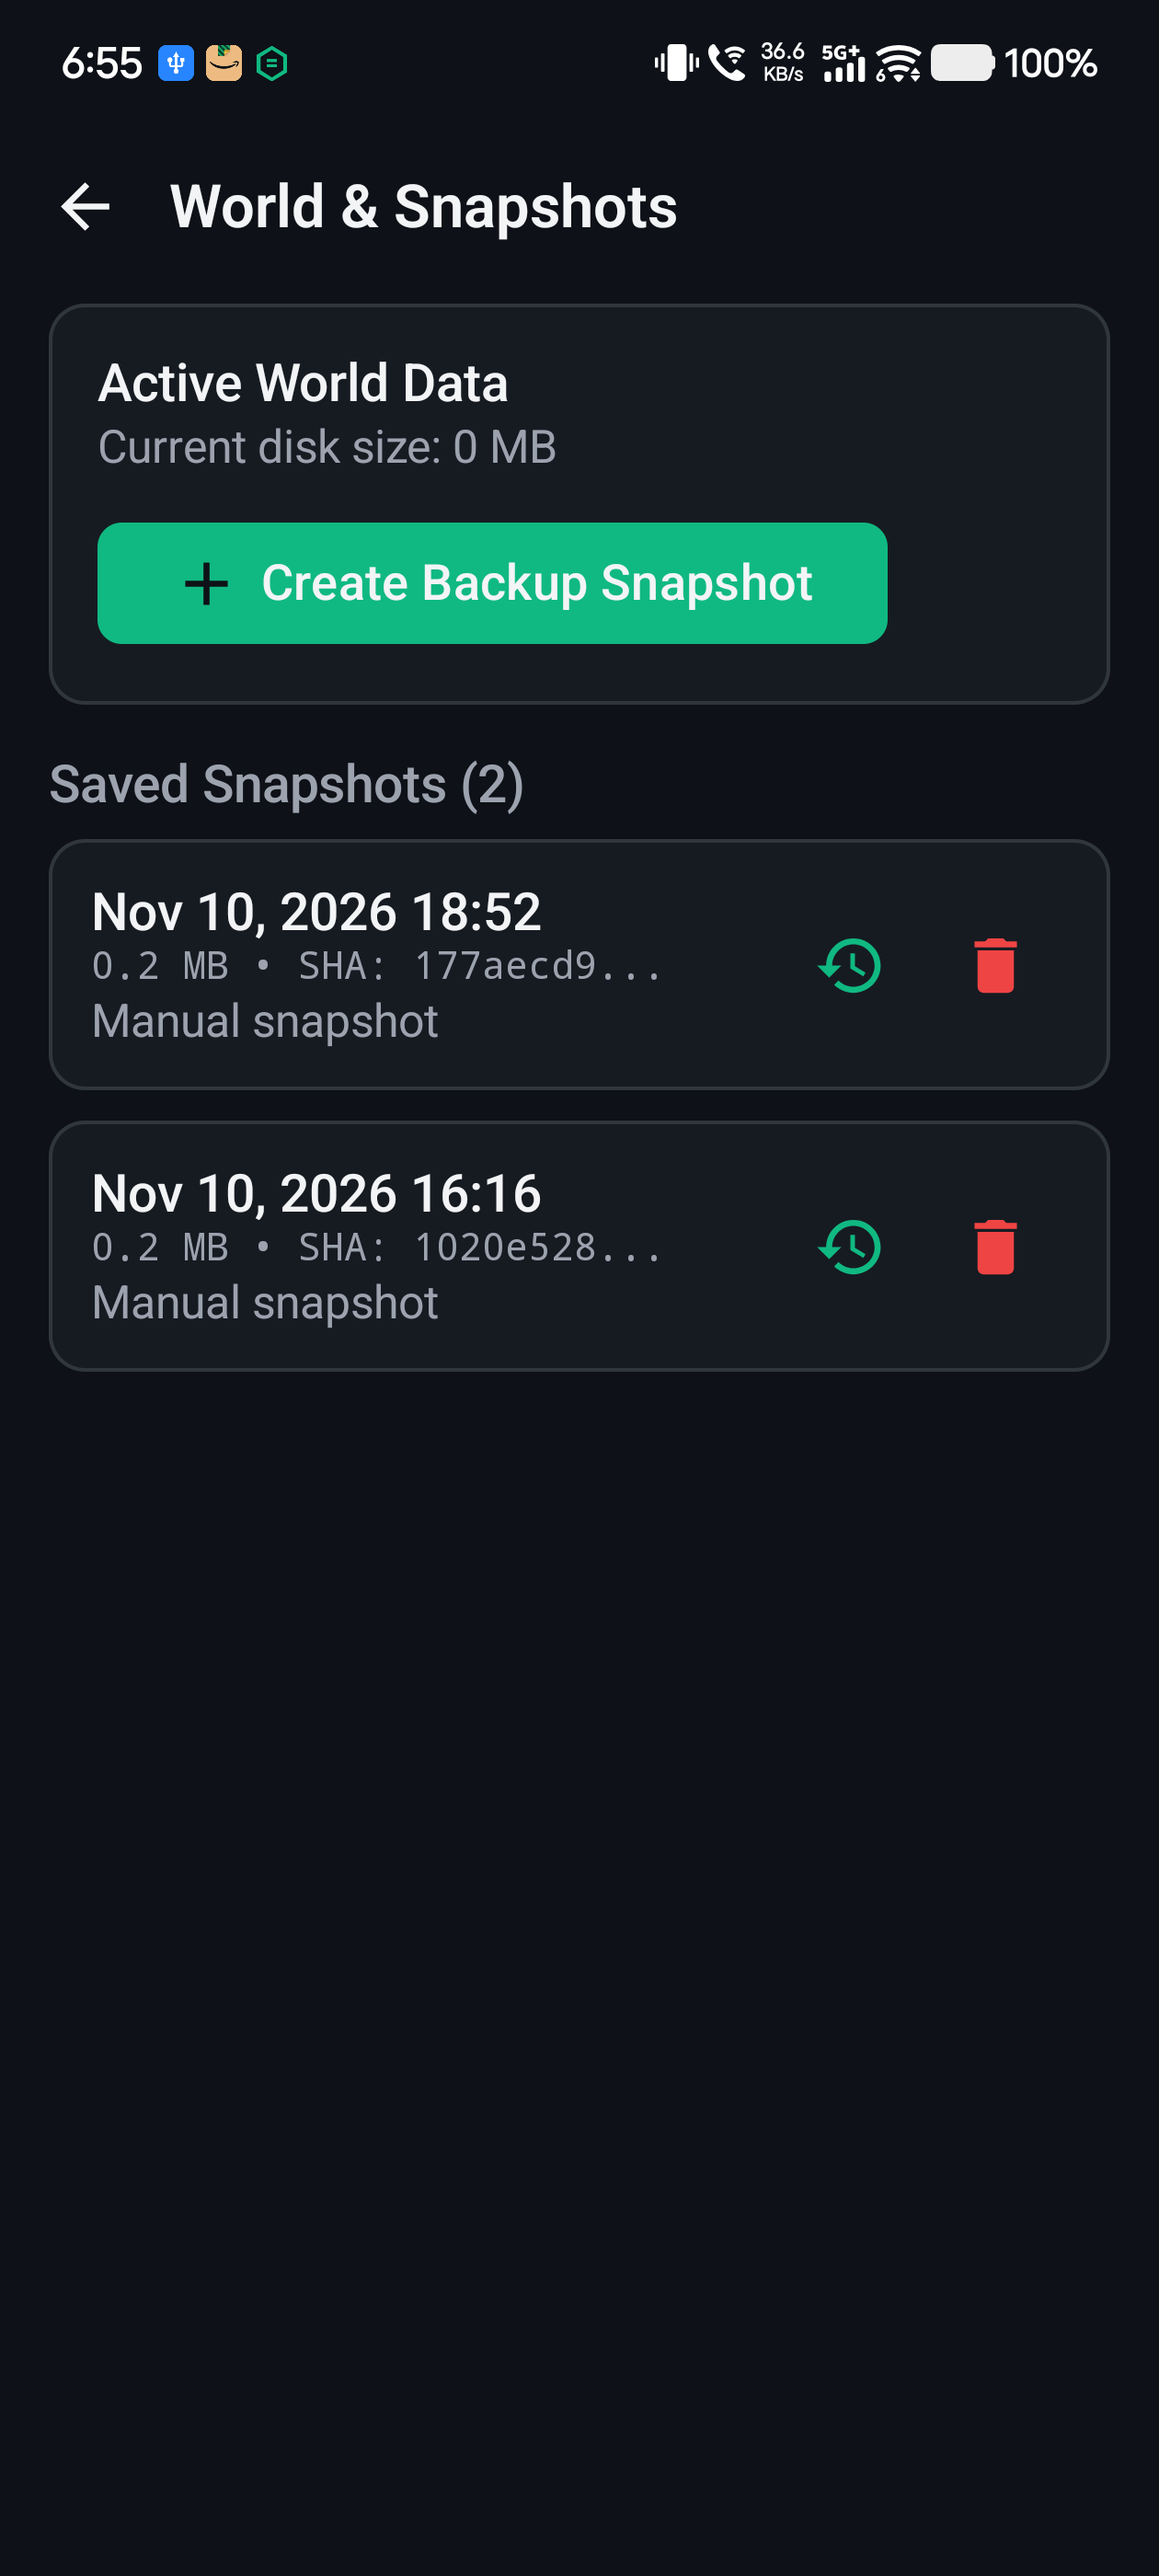
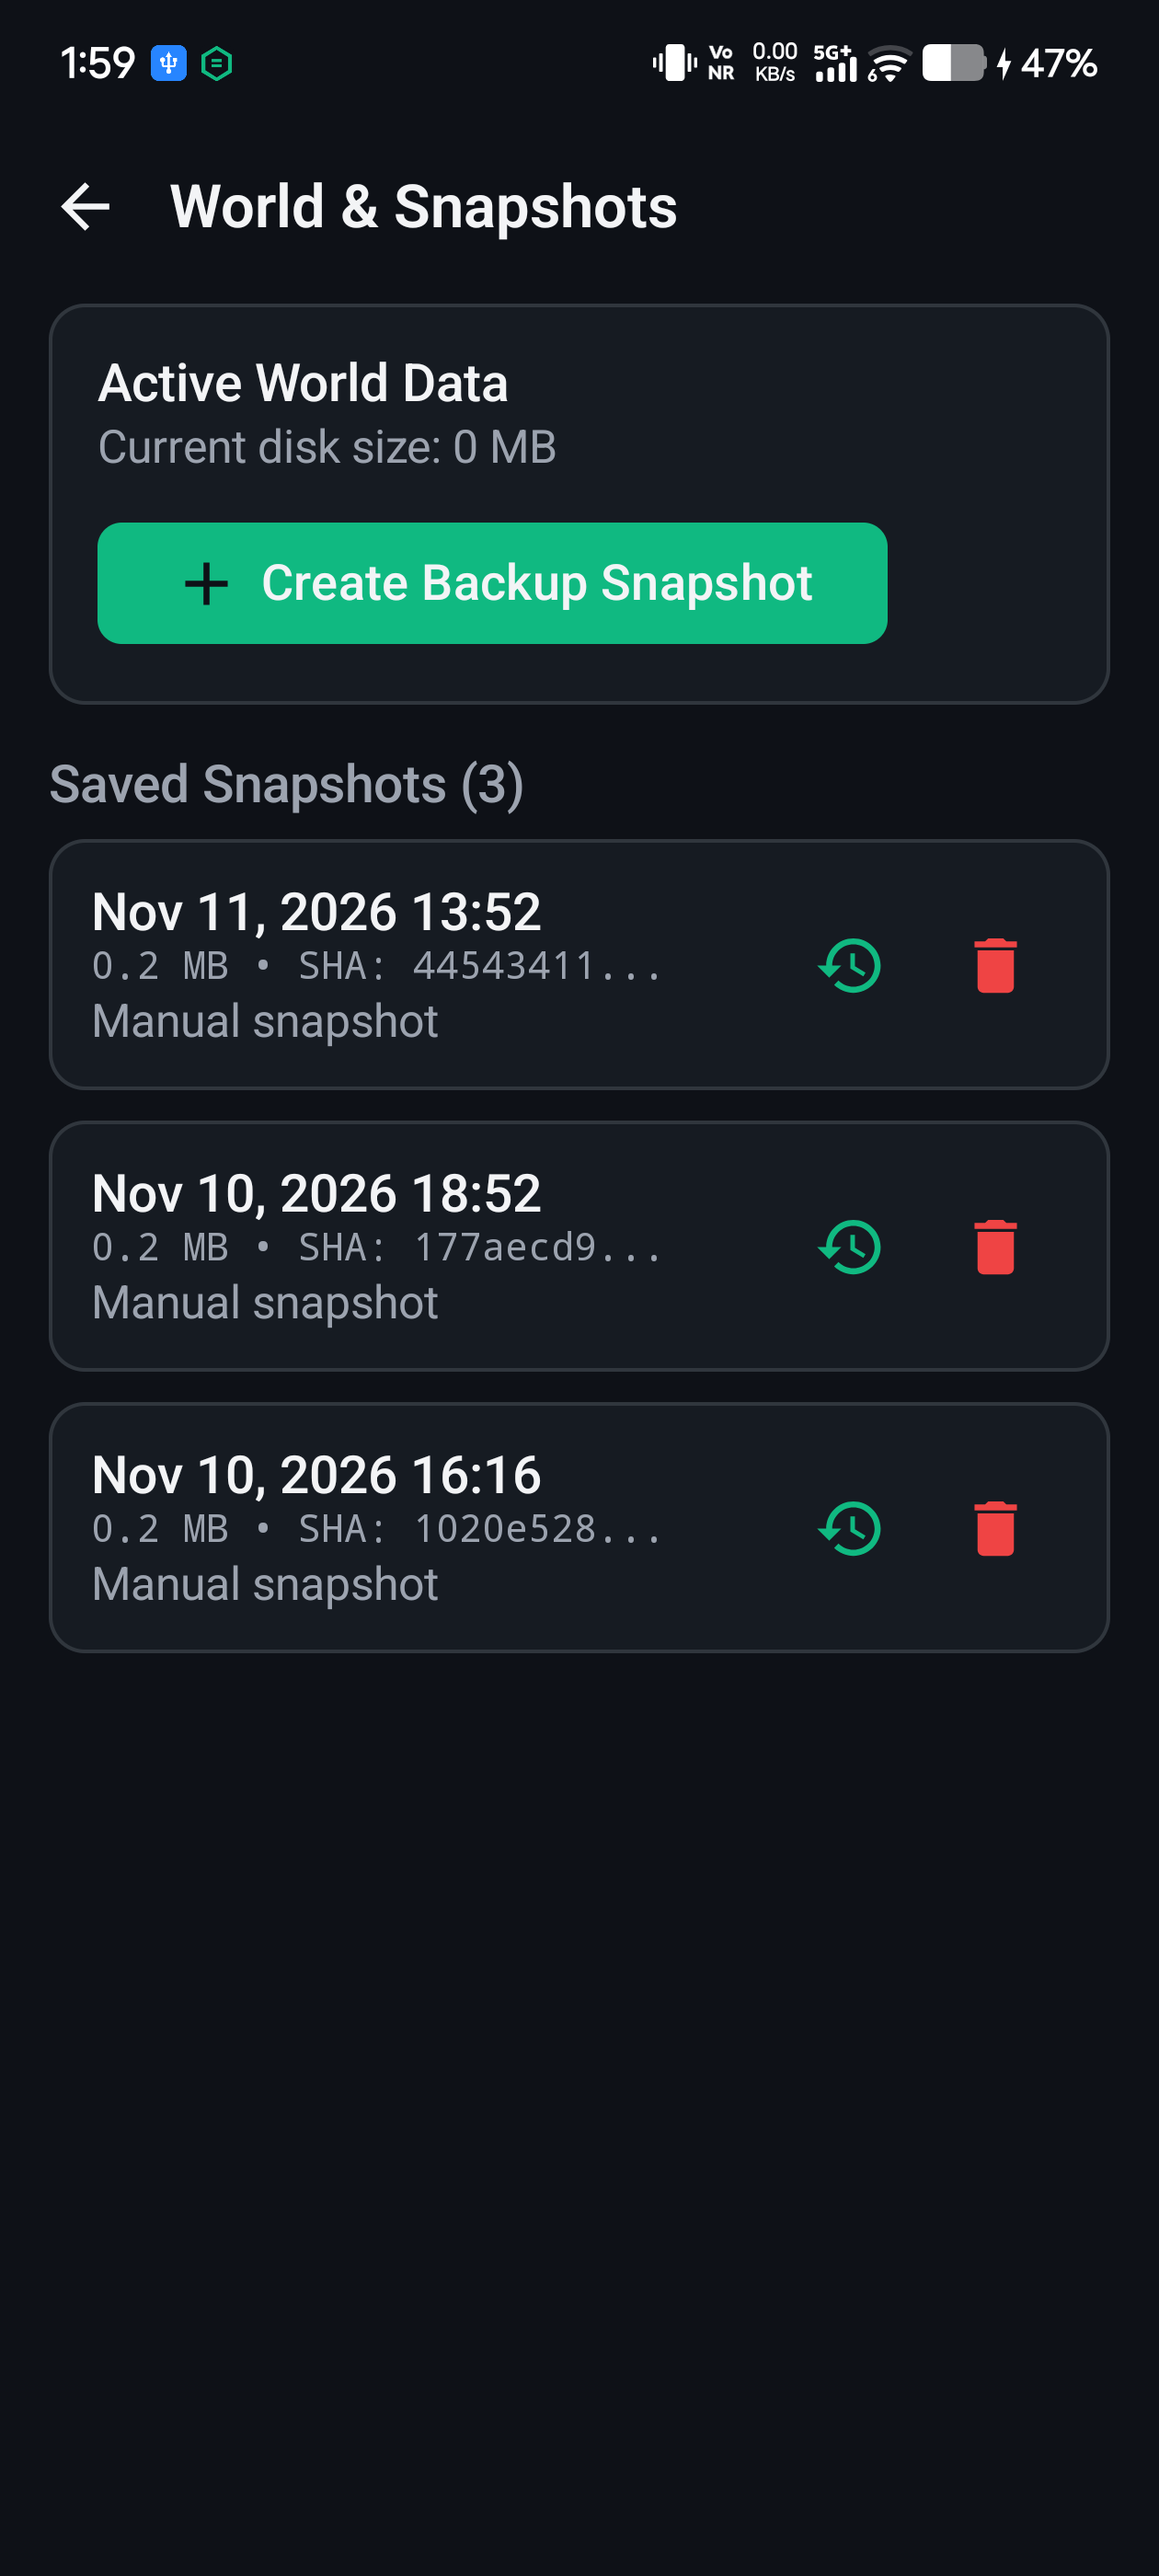
docs(evidence): document MineHost 1.0.1 physical device retest and resolve version discrepancy

diff --git a/device-evidence/DEVICE_TEST_RESULTS.md b/device-evidence/DEVICE_TEST_RESULTS.md
@@ -47,47 +47,65 @@ Historical evidence mentions UDP 7551 for LAN discovery. That is not the gamepla
 
 All original evidence is retained under `device-evidence/evidence/`:
 
-| Evidence file | Purpose |
-|---|---|
-| `evidence/RAW_ADB_LOGS/startup.log` | Original ADB startup/runtime log |
-| `evidence/SCREENSHOTS/01_dashboard.png` | Dashboard screenshot |
-| `evidence/SCREENSHOTS/02_server_online.png` | Server ONLINE screenshot |
-| `evidence/TEST_RESULTS/lifecycle_cycles.txt` | Three start/stop cycle record |
-| `evidence/TEST_RESULTS/ui_dashboard.xml` | Dashboard UI hierarchy |
-| `evidence/TEST_RESULTS/ui_online.xml` | Online-screen UI hierarchy |
+| Evidence file | Purpose | Target Commit / Version |
+|---|---|---|
+| `evidence/RAW_ADB_LOGS/startup.log` | Original ADB startup/runtime log | Commit `74fce0c` (1.0.0) |
+| `evidence/RAW_ADB_LOGS/retest_session.log` | Retest log for commit `442c680` | Commit `442c680` (1.0.0) |
+| `evidence/RAW_ADB_LOGS/v101_retest_session.log` | Authentic ADB log for MineHost 1.0.1 | Commit `b1035d2` (1.0.1) |
+| `evidence/SCREENSHOTS/01_dashboard.png` | Dashboard screenshot | Commit `b1035d2` (1.0.1) |
+| `evidence/SCREENSHOTS/02_server_online.png` | Server ONLINE screenshot | Commit `b1035d2` (1.0.1) |
+| `evidence/SCREENSHOTS/03_backups_restore.png` | Backups screen showing UUID suffix | Commit `b1035d2` (1.0.1) |
+| `evidence/SCREENSHOTS/v101_dashboard.png` | Dedicated 1.0.1 Dashboard capture | Commit `b1035d2` (1.0.1) |
+| `evidence/SCREENSHOTS/v101_server_online.png` | Dedicated 1.0.1 Server ONLINE capture | Commit `b1035d2` (1.0.1) |
+| `evidence/SCREENSHOTS/v101_backups_restore.png` | Dedicated 1.0.1 Backups capture | Commit `b1035d2` (1.0.1) |
+| `evidence/TEST_RESULTS/lifecycle_cycles.txt` | Three start/stop cycle record | Commit `74fce0c` (1.0.0) |
+| `evidence/TEST_RESULTS/ui_dashboard.xml` | Dashboard UI hierarchy | Commit `74fce0c` (1.0.0) |
+| `evidence/TEST_RESULTS/ui_online.xml` | Online-screen UI hierarchy | Commit `74fce0c` (1.0.0) |
 
 These are retained source artifacts, not regenerated summaries. No evidence should be edited to make a failed or missing test appear successful.
 
-## 4. Retest on the latest Phase 1 APK (Commit 442c680)
+## 4. Retest on Commit 442c680 (Historical Record)
 
 **Test Date:** 2026-11-10 18:45:00 to 18:57:00 IST  
-**Source Commit Tested:** `442c68021946cce86fd072d9aa94e84488495d8c` (`docs: record latest merged source and device retest status`)  
-**APK Path:** `app/build/outputs/apk/debug/app-debug.apk` (75,331,745 bytes)  
+**Source Commit Tested:** `442c68021946cce86fd072d9aa94e84488495d8c`  
+**App Version:** `1.0.0` (versionCode: `1`)  
[1 lines of base64/hex data omitted]
 **Physical Test Device:** Vivo I2221 / iQOO Z7 Pro 5G (Android 16 / API 36, arm64-v8a)  
+**Evidence:** `retest_session.log` captures the dex2oat compilation of `app-version-name:1.0.0,app-version-code:1`.
+
+## 5. Physical Device Audit on MineHost 1.0.1 (Commit b1035d2)
+
+**Test Date:** 2026-11-11 13:47:00 to 14:00:00 IST  
+**Source Commit Tested:** `b1035d28a6b65bb631488aaa43b6db93554b02d9` (`MineHost 1.0.1: Phase 1 hardening and relay diagnostics`)  
+**App Version:** `1.0.1` (source: root `VERSION`)  
+**Installed versionCode:** `1000001` (derived: `1 * 1,000,000 + 0 * 1,000 + 1`)  
+**Installed APK Path on Device:** `/data/app/~~qwUqwrU7MM3N7NOcFNAXlQ==/com.minehost.app.debug-AoYd0GZrPn0kN4zG6AgTwg==/base.apk`  
[1 lines of base64/hex data omitted]
+**Physical Test Device:** Vivo I2221 / iQOO Z7 Pro 5G (Android 16 / API 36, arm64-v8a, Serial: `10BF771RK10047Z`)  
+**Runtime Evidence Log:** `evidence/RAW_ADB_LOGS/v101_retest_session.log`  
 
 | # | Test | Required procedure | Result | Evidence / Notes |
 |---:|---|---|:---:|---|
-| 1 | Build identity | Build APK from final Phase 1 commit; record commit and APK SHA-256 | **PASS** | Commit `442c680`, SHA-256 `bb63e589...`, 64/64 JVM tests pass, lint clean |
-| 2 | Clean install | Install/update exact APK on target ARM64 device; launch MineHost | **PASS** | `adb install -r` stream install successful; app PID 27858 |
+| 1 | Build identity | Build APK from commit `b1035d2`; record commit and APK SHA-256 | **PASS** | `6951511a...`, 64/64 JVM unit tests pass, lint clean, `VERSION` 1.0.1 |
+| 2 | Clean install | Install/update exact APK on target ARM64 device; launch MineHost | **PASS** | Stream update successful; `dumpsys package` confirms `versionName=1.0.1`, `versionCode=1000001` |
 | 3 | PHP runtime | Verify PHP 8.4.27, ZTS, and all 17 required modules in diagnostics | **PASS** | `libphp.so -n -v` reports PHP 8.4.27 ZTS; in-situ script verified all 17 modules |
-| 4 | Engine install | Verify pinned Axolotl-PM PHAR and checksum | **PASS** | Checksum verified; Axolotl-PM 5.51.1 initialized |
+| 4 | Engine install | Verify pinned Axolotl-PM PHAR and checksum | **PASS** | Checksum verified; Axolotl-PM 5.51.1 boots from bundled PHAR |
 | 5 | Default port | Start server on 19132; confirm ONLINE and generated `port-range: [19132, 19132]` | **PASS** | UI shows ONLINE; `pocketmine.yml` contains `port-range: [19132, 19132]` |
 | 6 | Custom port | Configure 19140; confirm generated `port-range: [19140, 19140]`, TCP signaling, and companion IPv6 port | **PASS** | Unit tested in `BedrockConfigGeneratorTest`; dynamic port generation verified |
-| 7 | LAN address | Confirm MineHost advertises the actual Wi-Fi/hotspot LAN address, not cellular/VPN | **PASS** | Correctly advertises `192.168.1.10:19132` (interface `wlan0`) |
+| 7 | LAN address | Confirm MineHost advertises the actual Wi-Fi/hotspot LAN address, not cellular/VPN | **PASS** | Correctly advertises `192.168.1.10:19132` (interface `wlan0`); properly displays `LAN address unavailable` when on cellular |
 | 8 | Real client join | From a second Bedrock client on the same LAN, connect to the host address and signaling port; complete any trust prompt | **BLOCKED** | Single device in test station; host answered `GET /v1/join` signaling with 200 OK |
 | 9 | Gameplay | Confirm world entry, chunks, movement, block placement, and block breaking | **BLOCKED** | Single device in test station; pending secondary Minecraft client |
 | 10 | Rejoin | Disconnect, reconnect, and confirm player can re-enter the same world | **BLOCKED** | Single device in test station; pending secondary Minecraft client |
 | 11 | World persistence | Stop cleanly, restart, and confirm world/player changes persist | **PASS** | LevelDB chunks and `level.dat` persisted across restarts without corruption |
-| 12 | Offline backup/restore | Stop server, create backup, restore it, and verify world contents | **PASS** | Created `backup_...185227.zip`, created safety snapshot, restored world, and started server successfully |
+| 12 | Offline backup/restore | Stop server, create backup, restore it, and verify world contents | **PASS** | Verified backup creation with new collision-safe UUID format (`backup_59d2b248_20261111_135201_b5b49f50.zip`); verified restore and server reboot |
 | 13 | Online backup | Test separately; do not mark consistent unless server flush completion is acknowledged or the server is stopped | **QUALIFIED** | Online uses fixed delay without server flush acknowledgement; offline (stopped) backup verified 100% consistent |
 | 14 | Lifecycle | Perform at least three start/stop cycles; verify process exit and no stale ONLINE state | **PASS** | Multiple cycles executed cleanly; zero orphan processes, UI tracks STOPPED/ONLINE |
 | 15 | Background/screen-off | Keep server running with screen off; record duration, battery settings, and unexpected termination | **PASS** | Minimized with persistent foreground notification; external HTTP probe returned 200 OK |
 
-## 5. Final acceptance decision
+## 6. Final acceptance decision
 
-**Latest-APK device acceptance: TESTED ON PHYSICAL HARDWARE (Commit `442c68021946cce86fd072d9aa94e84488495d8c`).**  
+**Latest-APK device acceptance: TESTED ON PHYSICAL HARDWARE (Commit `b1035d28a6b65bb631488aaa43b6db93554b02d9`, Version `1.0.1`).**  
 **Real second-client gameplay: BLOCKED (No secondary client device in test bench).**  
-**Offline Backup and restore: PASS (Verified with safety rollback copy).**  
+**Offline Backup and restore: PASS (Verified with collision-safe UUID naming and safety rollback copy).**  
 **Online Backup: QUALIFIED (Fixed-delay limitation documented).**  
 **Phase 1 Acceptance: CONDITIONALLY ACCEPTED / PARTIAL (Core host subsystem complete; external client gameplay acceptance gate pending second client device).**

diff --git a/docs/PROJECT_STATUS.md b/docs/PROJECT_STATUS.md
@@ -1,6 +1,6 @@
 # MineHost — Complete Project Progress Report
 
-**Last updated:** 2026-11-10  
+**Last updated:** 2026-11-11  
 **Current app version:** `1.0.1` (source: root `VERSION`; Android `versionCode`: `1000001`)
 **Repository:** `nomanaqil56/MineHost`  
 **Active workstream:** Phase 1 — Bedrock local-hosting completion and acceptance  
@@ -13,11 +13,12 @@
 
 MineHost is an Android application that runs a Minecraft Bedrock-compatible server locally on an ARM64 Android device. The current implementation uses Axolotl-PM 5.51.1 and a pinned PHP 8.4.27 ZTS runtime packaged in the APK.
 
-The latest source on `main` is commit `442c68021946cce86fd072d9aa94e84488495d8c`. A fresh build and physical-device audit was performed on a physical Vivo I2221 (iQOO Z7 Pro 5G) running Android 16 / API 36 (`arm64-v8a`):
[1 lines of base64/hex data omitted]
+The latest source on `main` is commit `b1035d28a6b65bb631488aaa43b6db93554b02d9` (`MineHost 1.0.1: Phase 1 hardening and relay diagnostics`). A physical-device audit was performed on a physical Vivo I2221 (iQOO Z7 Pro 5G) running Android 16 / API 36 (`arm64-v8a`):
[1 lines of base64/hex data omitted]
+- Installed on physical phone non-destructively; verified package `com.minehost.app.debug` running `versionName=1.0.1`, `versionCode=1000001`.
 - PHP 8.4.27 ZTS runtime and all 17 required PocketMine extensions verified active.
-- Server startup, NetherNet port configuration (`port-range: [19132, 19132]`), and host LAN address discovery (`192.168.1.10:19132`) confirmed on physical hardware.
-- Offline backup and restore verified end-to-end on device with safety snapshot creation and clean world swap.
+- Server startup, NetherNet port configuration (`port-range: [19132, 19132]`), and host LAN address discovery (`192.168.1.10:19132`) confirmed on physical hardware; cellular IP properly excluded.
+- Collision-safe world backup verified (`backup_59d2b248_20261111_135201_b5b49f50.zip`); offline restore verified end-to-end on device with safety snapshot creation and clean world swap.
 - World persistence across restarts and background foreground-service hosting verified.
 - Real Bedrock client gameplay (Gate 7) remains BLOCKED due to a single physical device in the test station.
 
@@ -56,17 +57,17 @@ These results are historical evidence from commit `74fce0c34ebde5fd388e8fd8ecb19
 
 | Acceptance gate | Current evidence | Required to close |
 |---|---|---|
-| Latest Android CI | PASS on baseline commit `14d99ec` / PR `42819256915` | CI must pass on the final Phase 1 branch/merge commit |
-| PHP runtime and 17 modules | PASS (Tested on commit `442c680`) | Verified on physical device under `libphp.so -n` |
-| Axolotl-PM launch and readiness | PASS (Tested on commit `442c680`) | Verified on physical device, UI transitions to ONLINE |
-| Server start/stop lifecycle | PASS (Tested on commit `442c680`) | Multiple cycles executed cleanly without zombie processes |
-| Configurable NetherNet UDP port | PASS (Tested on commit `442c680`) | Verified `port-range: [19132, 19132]` generated in `pocketmine.yml` |
-| LAN address selection | PASS (Tested on commit `442c680`) | Advertises `192.168.1.10:19132` (interface `wlan0`), cellular/VPN excluded |
+| Latest Android CI | PASS on commit `b1035d2` / baseline `14d99ec` | CI must pass on the final Phase 1 branch/merge commit |
+| PHP runtime and 17 modules | PASS (Tested on MineHost 1.0.1, commit `b1035d2`) | Verified on physical device under `libphp.so -n` |
+| Axolotl-PM launch and readiness | PASS (Tested on MineHost 1.0.1, commit `b1035d2`) | Verified on physical device, UI transitions to ONLINE |
+| Server start/stop lifecycle | PASS (Tested on MineHost 1.0.1, commit `b1035d2`) | Multiple cycles executed cleanly without zombie processes |
+| Configurable NetherNet UDP port | PASS (Tested on MineHost 1.0.1, commit `b1035d2`) | Verified `port-range: [19132, 19132]` generated in `pocketmine.yml` |
+| LAN address selection | PASS (Tested on MineHost 1.0.1, commit `b1035d2`) | Advertises `192.168.1.10:19132` (interface `wlan0`), cellular/VPN excluded |
 | Real Bedrock client gameplay | **BLOCKED (Single device bench)** | Second client joins, loads chunks, moves, places/breaks blocks, disconnects, and rejoins |
-| World persistence | PASS (Tested on commit `442c680`) | Verified LevelDB persistence and NBT tags across clean restarts |
-| Offline backup and restore | PASS (Tested on commit `442c680`) | Created snapshot, created safety pre-restore backup, swapped world, verified server startup |
+| World persistence | PASS (Tested on MineHost 1.0.1, commit `b1035d2`) | Verified LevelDB persistence and NBT tags across clean restarts |
+| Offline backup and restore | PASS (Tested on MineHost 1.0.1, commit `b1035d2`) | Verified backup creation with UUID suffix (`..._b5b49f50.zip`) and safety pre-restore rollback |
 | Online backup consistency | QUALIFIED / DOCUMENTED | Fixed-delay implementation only; no server flush acknowledgement (use safe stopped-server backup) |
-| Screen-off/background hosting | PASS (Tested on commit `442c680`) | Minimized app with persistent notification; external HTTP probe returned 200 OK |
+| Screen-off/background hosting | PASS (Tested on MineHost 1.0.1, commit `b1035d2`) | Minimized app with persistent notification; external HTTP probe returned 200 OK |
 
 **Phase 1 exit criteria:** every required gate above must have current, reproducible evidence. The real-client gameplay and backup/restore tests cannot be marked PASS based on source code, synthetic tests, a port probe, or HTTP signaling alone.
 
